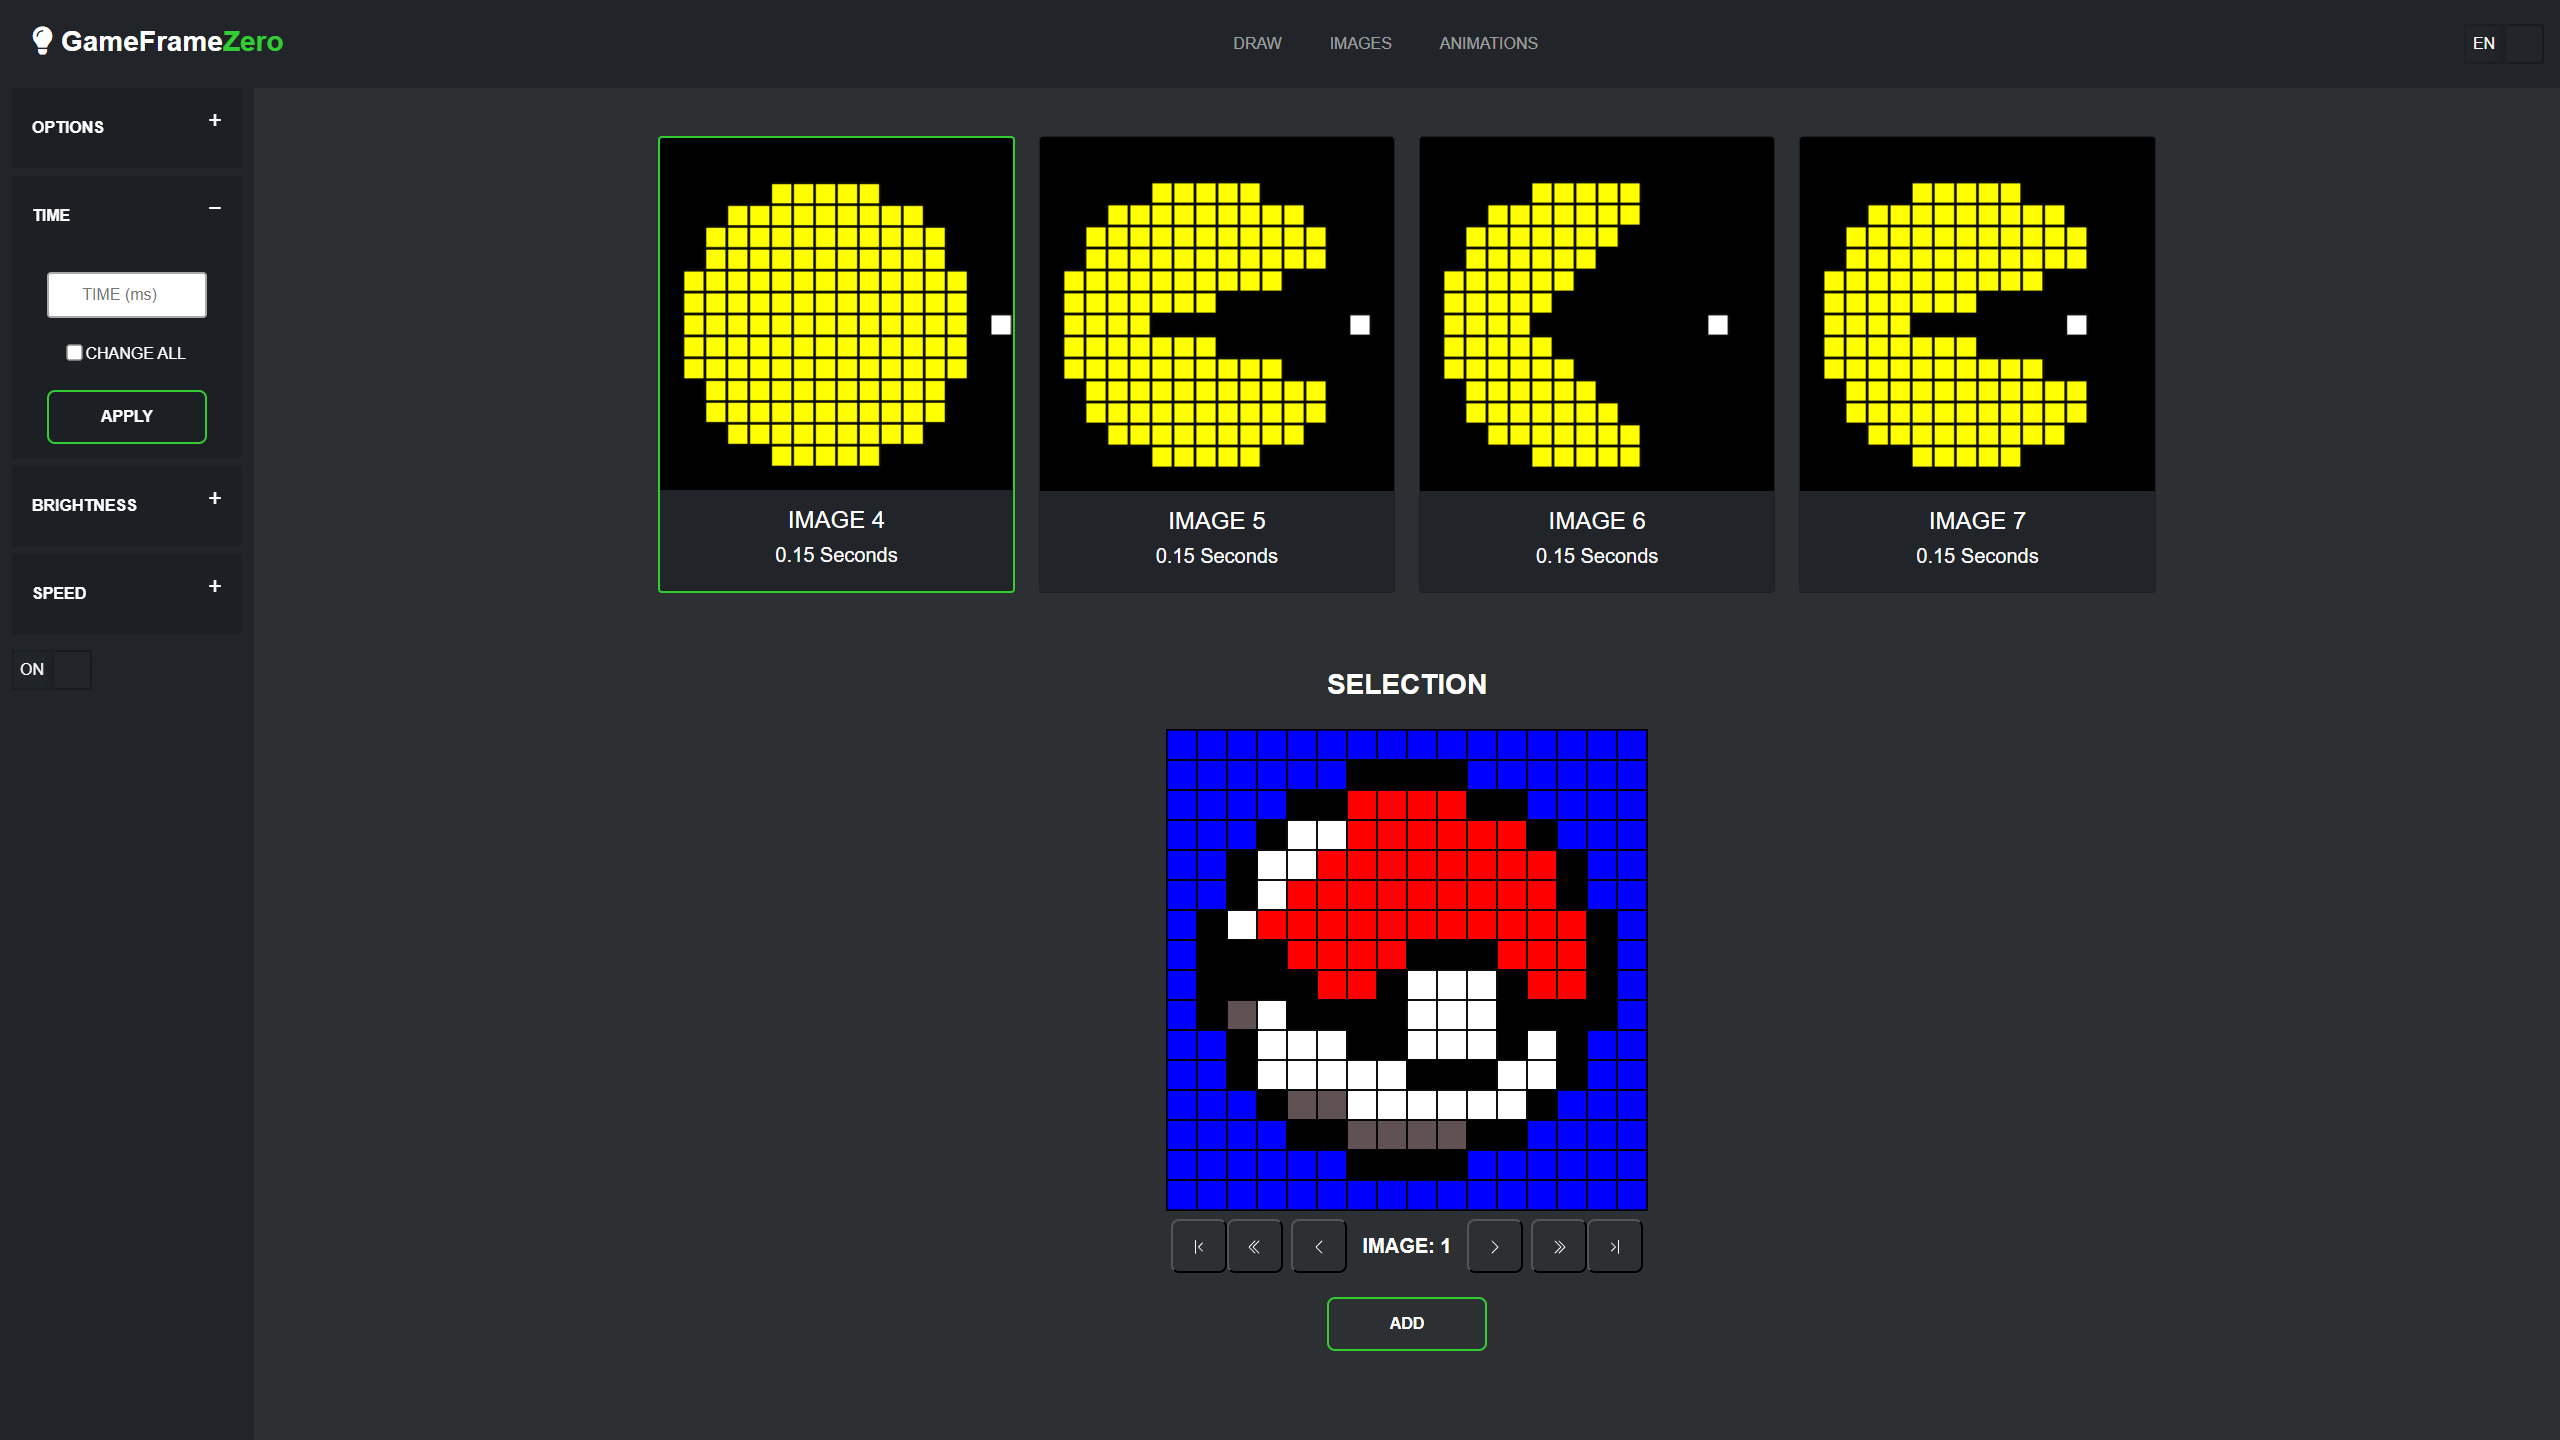
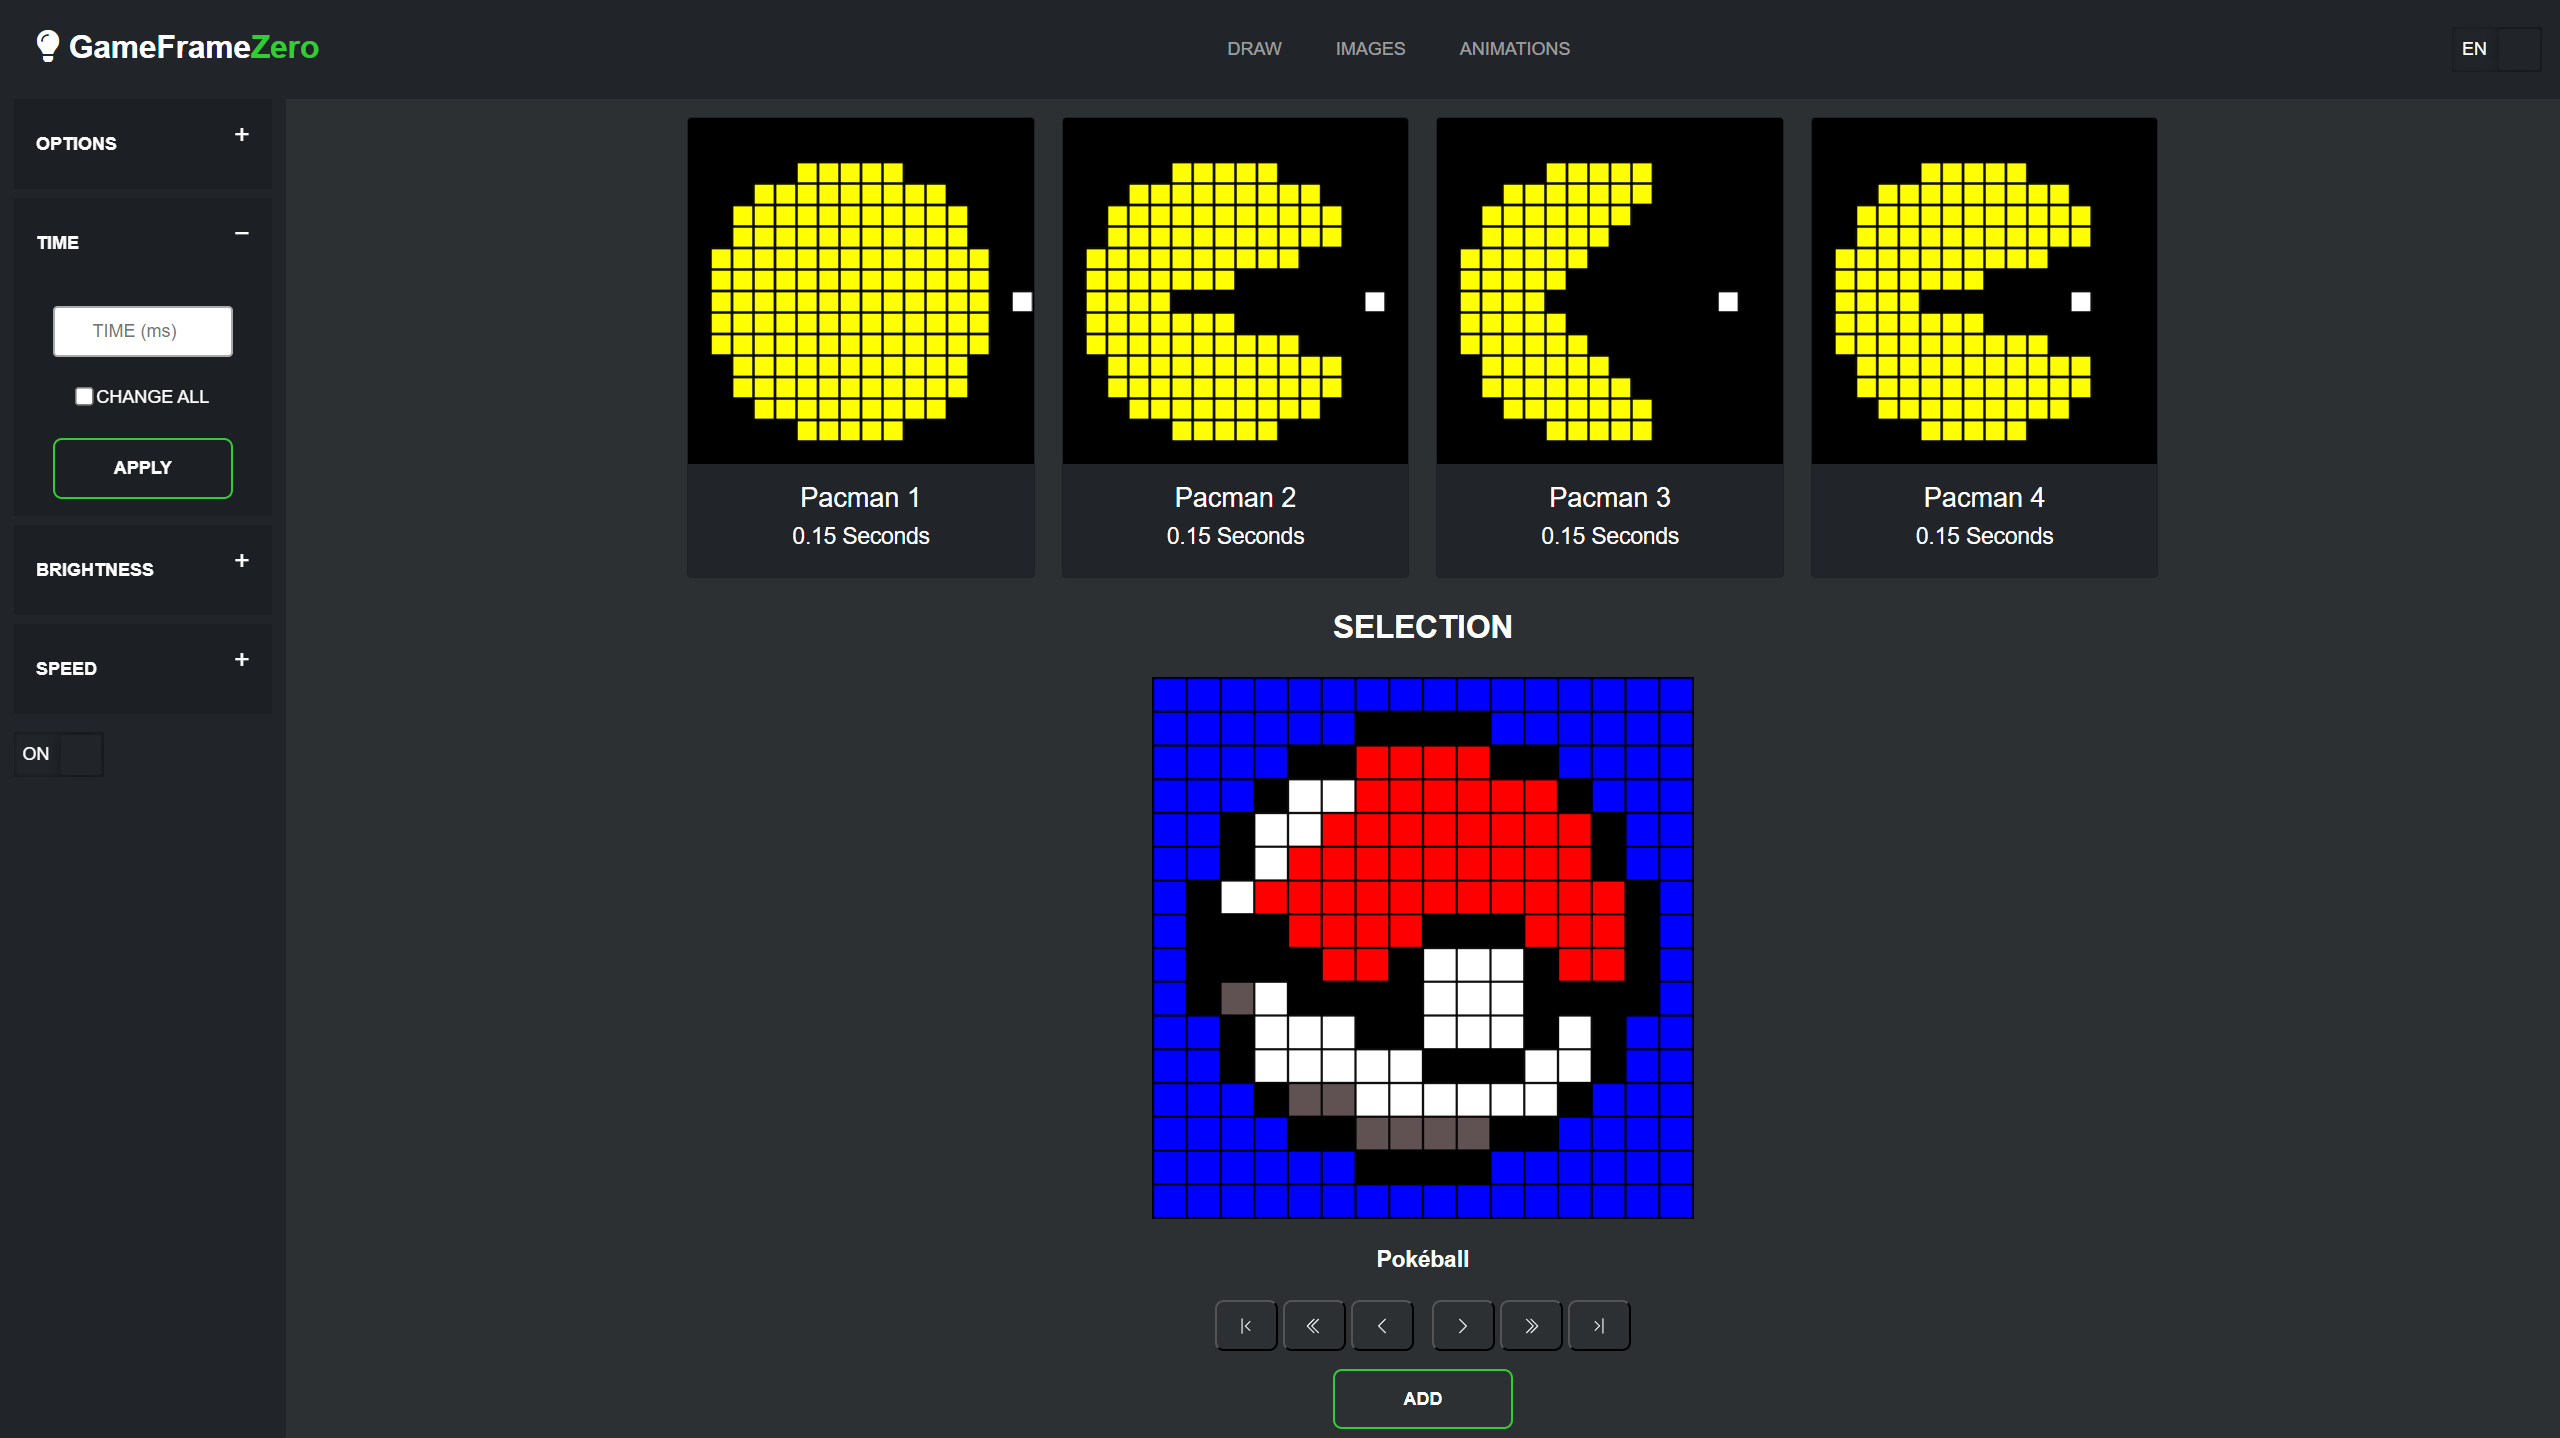
readme updated

diff --git a/templates/animation_editor.html b/templates/animation_editor.html
@@ -129,10 +129,10 @@
 
             <!-- Sidebar END -->
                 <div class="d-flex flex-column col">
-                    <div class="d-flex justify-content-center my-5">
+                    <div class="d-flex justify-content-center my-3">
                         <div class="row col-lg-8 g-4" id="tile-body"></div>
                     </div>
-                    <div class="d-flex fs-3 fw-bold justify-content-center mt-4" id="amimation-frame-selection"></div>
+                    <div class="d-flex fs-3 fw-bold justify-content-center my-2" id="amimation-frame-selection"></div>
                     <div class="d-flex justify-content-center my-3">
                         <canvas width="480px" height="480px"></canvas>
                     </div>

diff --git a/static/css/style.css b/static/css/style.css
@@ -194,6 +194,7 @@ canvas {
 }
   
 .slider {
+    -webkit-appearance: none;
     width: 100%;
     height: 25px;
     background: white;

diff --git a/README.md b/README.md
@@ -22,9 +22,7 @@ git clone https://github.com/Kurzhalsgiraffe/GameFrameZero
 Make sure to install it with sudo, if you want to run the Server as root
 ````
 sudo apt install python3-pip
-sudo pip3 install flask
-sudo pip3 install rpi-ws281x
-sudo pip3 install waitress
+sudo pip3 install -r requirements.txt
 ````
 
 ## Setup the Autostart
@@ -98,4 +96,4 @@ The grid fits perfectly to my Shadow Box Frame. If yours does not fit, can adjus
 ### Disclaimer
 
 Please note that this is just a hobby project. Code or hardware may not reflect best practice.
-Feel free to send me some pull requests! :)
+Feel free to send me a pull request! :)
